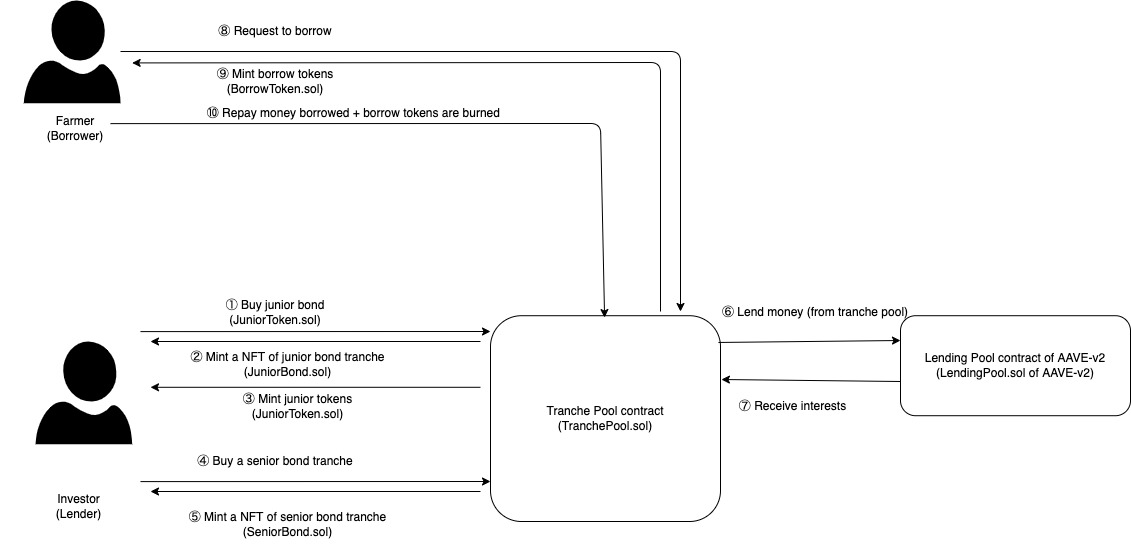
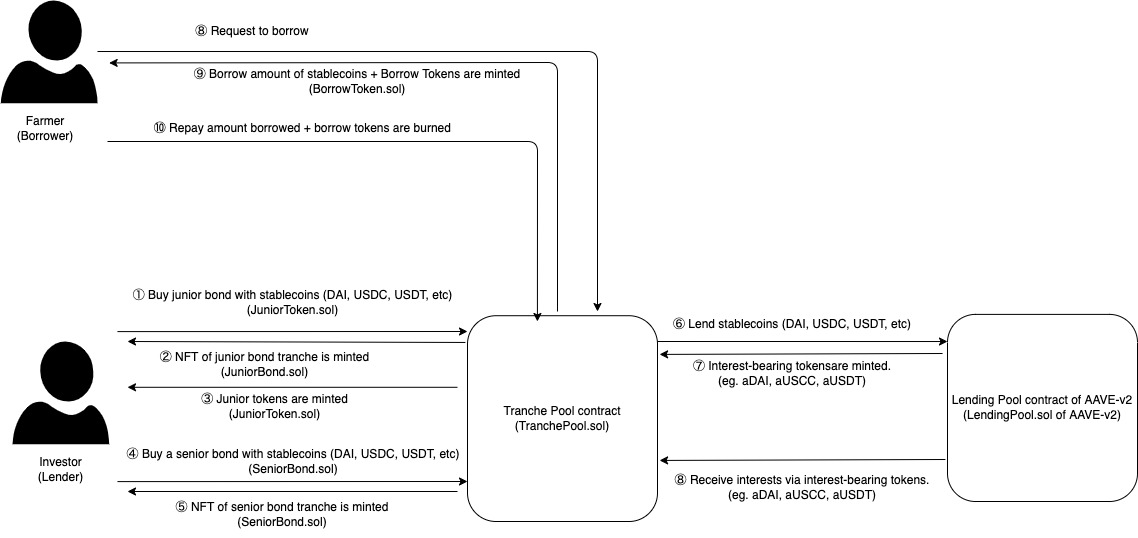
[README]: Update a diagram

diff --git a/README.md b/README.md
@@ -9,20 +9,20 @@
 
 <br>
 
-- Lenders (investors) can choose options either `junior tranche (bond)` or `senior tranche (bond)` .
-  - If they choose a senior tranche (bond), their fund deposited are protected. 
-  - If they choose a junior tranche (bond), their fund deposited are not protected. Instead, they can get higher interest rate.
+- Lenders (investors) can choose options either `junior bond tranche` or `senior bond tranche` .
+  - If they choose a senior bond tranche, their principle fund deposited are protected. 
+  - If they choose a junior bond tranche, their principle fund deposited are not protected. Instead, they can get higher interest rate.
 
 <br>
 
 ## 【Workflow】
 - Diagram of entire workflow
-  ![diagram_tranche-lending-and-borrowing-smart-contract-for-farmers](https://user-images.githubusercontent.com/19357502/146112578-bd07745b-6a69-494b-a270-88c031e26cbb.jpeg)
+  ![diagram_tranche-lending-and-borrowing-smart-contract-for-farmers](https://user-images.githubusercontent.com/19357502/146214707-7c929853-81d1-41a6-8548-bdb931918b51.jpeg)
 
 <br>
 
 - NOTE: 
-  - Repaid amount is calculated based on BorrowTokens that farmer has.
+  - Repaid amount is calculated based on BorrowTokens that a farmer has.
 
 <br>
 
